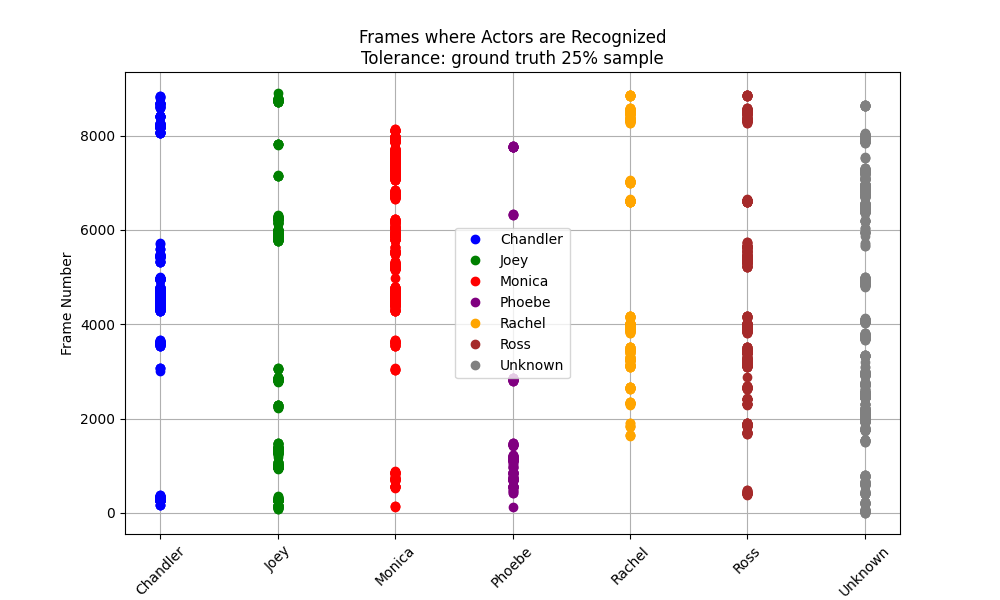
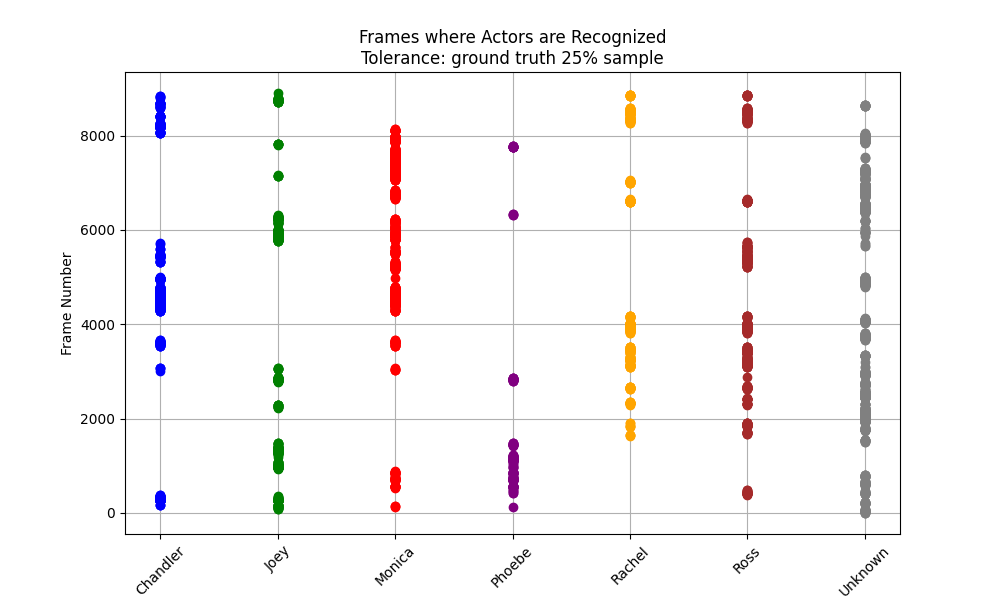
Add graph functions and update experiment script

Changed region(s): [[0.465, 0.36, 0.558, 0.63]]

diff --git a/experiments/set_b_tolerance/experiment.py b/experiments/set_b_tolerance/experiment.py
@@ -41,15 +41,30 @@ def plot_actor_frequencies(file_path, tolerance, multiplier=1.0):
     plt.show()
 
 
+def get_needed_frames():
+    frames = []
+    with open("exp_results_manual.txt", 'r') as fp:
+        lines = fp.readlines()
+        for line in lines[4:]:
+            actor, frame = line.split()
+            frames.append(int(frame))
+    return set(frames)
+
+
 def plot_video_frames(file_path, tolerance):
     """Plot frames where actors are recognized from a text file."""
     actor_frames = defaultdict(list)
+
+    frms = get_needed_frames()
 
     with open(file_path, 'r') as fp:
         lines = fp.readlines()
         for line in lines[4:]:
             actor, frame = line.split()
-            actor_frames[actor].append(int(frame))
+            if int(frame) in frms:
+                actor_frames[actor].append(int(frame))
+
+
 
     s = sorted(actor_frames.items())
 
@@ -68,7 +83,6 @@ def plot_video_frames(file_path, tolerance):
     plt.xlabel('Actors')
     plt.ylabel('Frame Number')
     plt.title(f'Frames where Actors are Recognized\nTolerance: {tolerance}')
-    plt.legend()
     plt.xticks(rotation=45)
     plt.grid(True)
 
@@ -96,7 +110,7 @@ if __name__ == '__main__':
     # plot_actor_frequencies("exp_results_t_0.5_m_cnn_u_1.txt",0.6)
     # plot_actor_frequencies("exp_results_t_0.6_m_cnn_u_1.txt",0.7)
 
-    # plot_actor_frequencies("exp_results_manual.txt", "gt", multiplier=4.059)
-    plot_video_frames("exp_results_t_0.6_m_hog_u_1.txt", "0.6 100% sample")
-    plot_video_frames("exp_results_manual.txt", "ground truth 25% sample")
+    # plot_actor_frequencies("exp_results_manual.txt", "estimated ground truth", multiplier=4.059)
+    plot_video_frames("exp_results_t_0.6_m_hog_u_1.txt", "0.6 same as ground truth")
+    # plot_video_frames("exp_results_manual.txt", "ground truth 25% sample")
 
